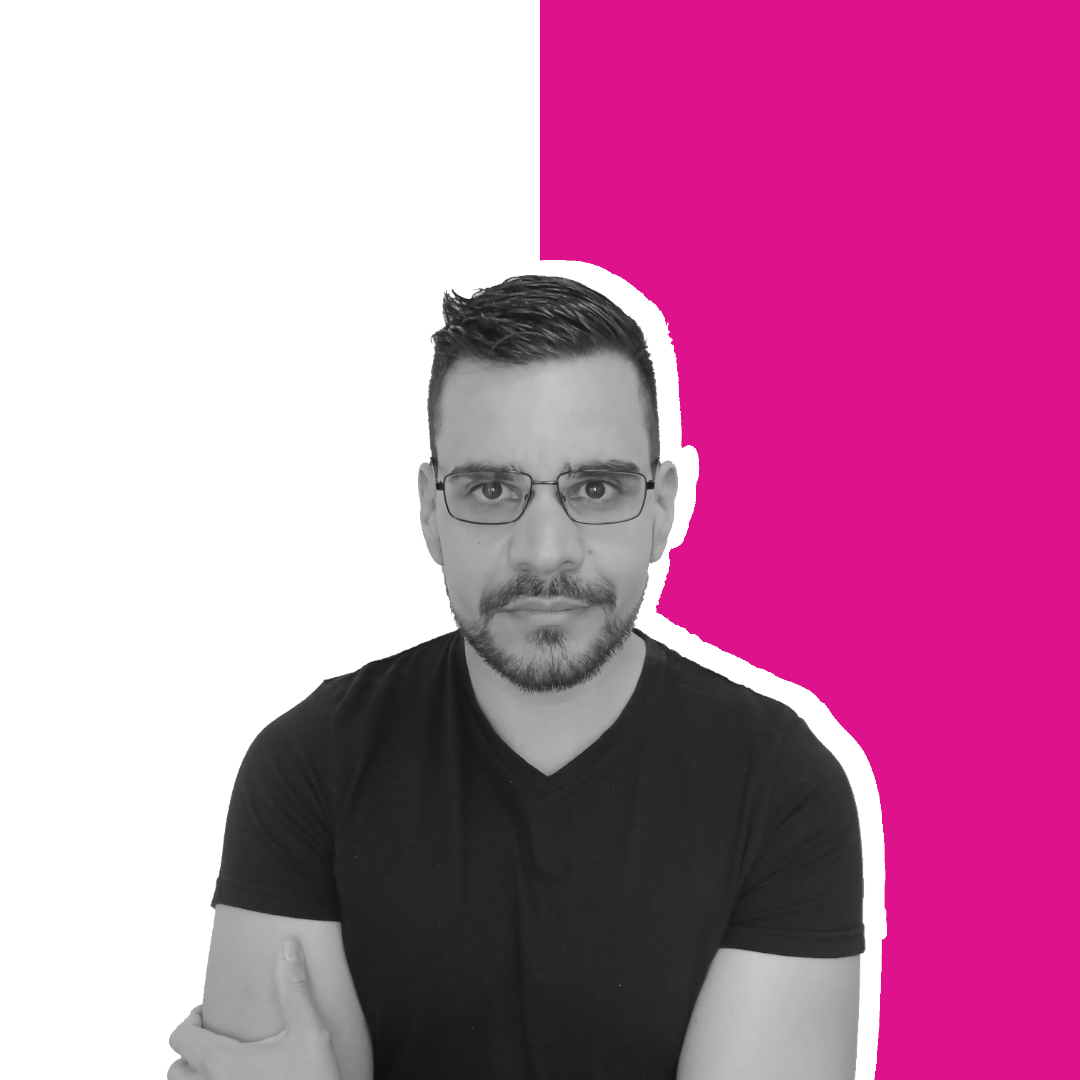
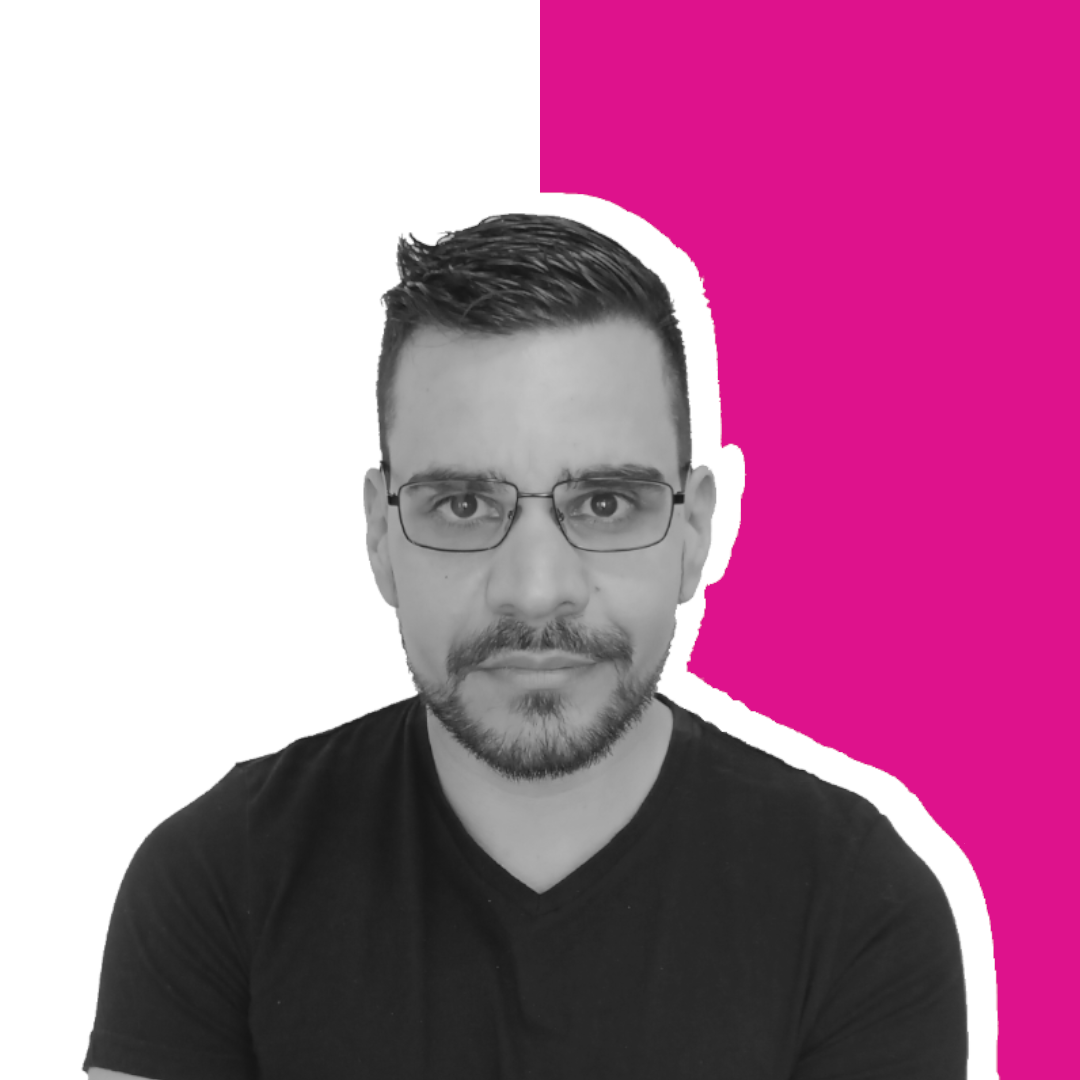
:recycle: Melhorar qualidade imagens postagens

Changed region(s): [[0.0611, 0.1528, 0.9472, 1.0]]

diff --git a/posts/2021-06-01-card-game-em-react-parte-1.md b/posts/2021-06-01-card-game-em-react-parte-1.md
@@ -2,8 +2,8 @@
 title: Card Game em React (Parte 1)
 description: Desenvolvendo um jogo tipo Hearthstone, Gwent e Yu-Gi-Oh! do conceito a entrega com React (Parte 1 de ?)
 date: 2021-06-01 08:26:08 -0300
-featuredImage: ./featured/pokemon_cardgame-1.jpg
-coverImage: figures/pokemon_cardgame-1.jpg
+featuredImage: ./featured/cards-1.jpg
+coverImage: figures/cards-1.jpg
 category: JavaScript
 tags:
   - Games

diff --git a/posts/2022-04-27-JavaScript_Positions_Cheatsheet.md b/posts/2022-04-27-JavaScript_Positions_Cheatsheet.md
@@ -2,8 +2,8 @@
 title: JavaScript Positions - Cheatsheet
 description: Cheatsheet para lidar posições em navegadores com JavaScript
 date: 2022-04-27 12:45:17 -0300
-featuredImage: ./featured/planet-1.jpg
-coverImage: /figures/planet-1.jpg
+featuredImage: ./featured/maps-1.jpg
+coverImage: /figures/maps-1.jpg
 category: JavaScript
 tags:
   - Position

diff --git a/posts/2018-08-19-Classificacao_Series_IMDb.md b/posts/2018-08-19-Classificacao_Series_IMDb.md
@@ -2,8 +2,8 @@
 title: Classificação de Séries IMDb
 description: Visualização de dados da base dados do IMDb com a linguagem R
 date: 2018-08-19 15:00:00 -0300
-featuredImage: ./featured/imdb-1.jpg
-coverImage: /figures/imdb-1.jpg
+featuredImage: ./featured/theater-1.jpg
+coverImage: /figures/theater-1.jpg
 category: R
 tags:
   - Visualização

diff --git a/posts/2019-05-24-Comecando_Jekyll.md b/posts/2019-05-24-Comecando_Jekyll.md
@@ -2,8 +2,8 @@
 title: Começando com Jekyll
 description: Geração de páginas estáticas com Jekyll e Markdown
 date: 2019-05-24 19:52:13 -0300
-featuredImage: ./featured/jekyll-1.png
-coverImage: /figures/jekyll-1.png
+featuredImage: ./featured/medicine-1.jpg
+coverImage: /figures/medicine-1.jpg
 category: Jekyll
 tags:
   - Web

diff --git a/posts/2022-10-05-JavaScript_Array_Cheatsheet.md b/posts/2022-10-05-JavaScript_Array_Cheatsheet.md
@@ -2,8 +2,8 @@
 date: 2022-10-05 11:54:58 -0300
 title: JavaScript Array - Cheatsheet
 description: Cheatsheet para lidar arrays com JavaScript
-featuredImage: ./featured/planet-1.jpg
-coverImage: /figures/planet-1.jpg
+featuredImage: ./featured/sheets-1.jpg
+coverImage: /figures/sheets-1.jpg
 category: JavaScript
 tags:
   - Array

diff --git a/posts/2020-08-09-Input_Estilizado.md b/posts/2020-08-09-Input_Estilizado.md
@@ -2,8 +2,8 @@
 title: Input estilizado
 description: Input para texto estilizado com mudanças no foco
 date: "2020-08-09 18:50:32"
-featuredImage: ./featured/paper-1.jpg
-coverImage: /figures/paper-1.jpg
+featuredImage: ./featured/planner-1.jpg
+coverImage: /figures/planner-1.jpg
 category: CSS
 tags:
   - Web

diff --git a/posts/2020-11-26-Git_Cheatsheet.md b/posts/2020-11-26-Git_Cheatsheet.md
@@ -2,8 +2,8 @@
 title: Git - Cheatsheet
 description: Comandos Git para Consulta
 date: 2020-11-26 14:18:35 -0300
-featuredImage: ./featured/git-1.jpg
-coverImage: /figures/git-1.jpg
+featuredImage: ./featured/library-2.jpg
+coverImage: /figures/library-2.jpg
 category: Git
 tags:
   - Cheatsheet
